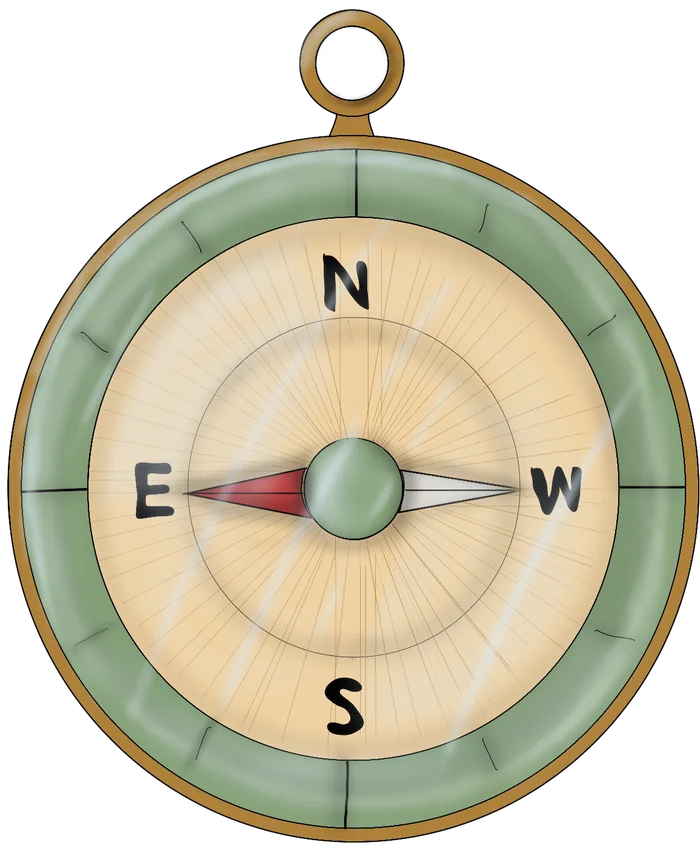
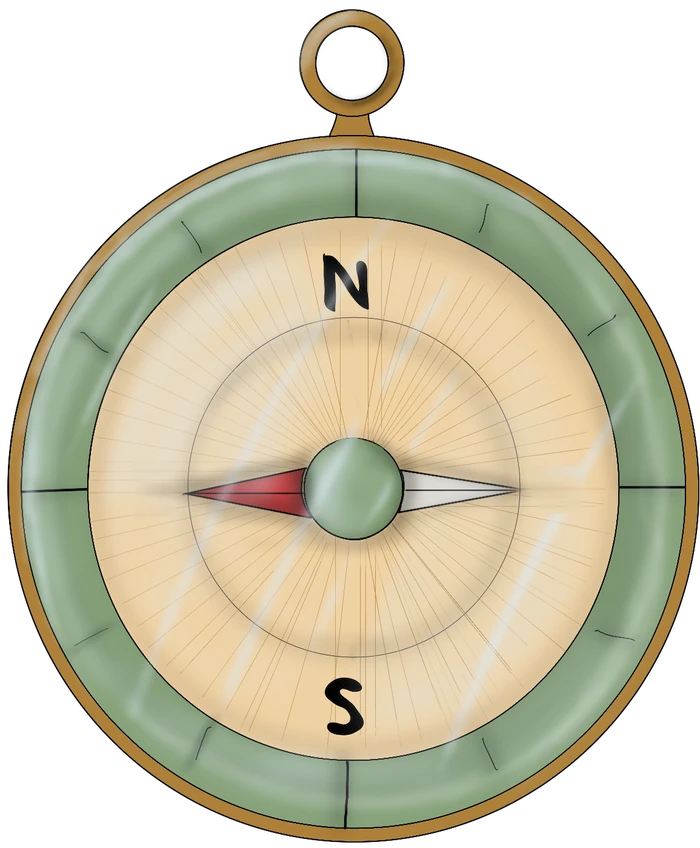
Compass demo with spinning needle, Nor lines and direction buttons; E/W letters swapped on their own layer; extra room dimming under Nor

Changed region(s): [[0.18, 0.5212, 0.27, 0.6132], [0.75, 0.5519, 0.84, 0.6132]]

diff --git a/Web/game.js b/Web/game.js
@@ -403,10 +403,10 @@ function showScreen(name) {
 // room4 (door wall) faces west, then turning right: room (bed) north,
 // room2 east, room3 south — each wall has its own drawing
 const COMPASS_BY_WALL = {
-  room: 'assets/img/room4/compass-room.webp?v=1',
-  room2: 'assets/img/room4/compass-room2.webp?v=1',
-  room3: 'assets/img/room4/compass-room3.webp?v=1',
-  room4: 'assets/img/room4/compass-room4.webp?v=1',
+  room: 'assets/img/room4/compass-room.webp?v=2',
+  room2: 'assets/img/room4/compass-room2.webp?v=2',
+  room3: 'assets/img/room4/compass-room3.webp?v=2',
+  room4: 'assets/img/room4/compass-room4.webp?v=2',
 };
 Object.values(COMPASS_BY_WALL).forEach(src => { new Image().src = src; });
 // closeups and side rooms keep the compass of the wall they belong to, so
@@ -418,7 +418,10 @@ const COMPASS_WALL_OF_SCREEN = {
   room4: 'room4', board: 'room4', 'tumbochka-drawer': 'room4', 'tumbochka-top': 'room4',
 };
 let compassWall = 'room4';
+// while Nor's compass demonstration runs the needle is driven by the animation, not by the wall
+let compassLock = false;
 function updateCompassImage() {
+  if (compassLock) return;
   el('compass-overlay-img').src = COMPASS_BY_WALL[compassWall];
 }
 let compassOverlayOpenedAt = 0;
@@ -438,14 +441,77 @@ function maybePlayCompassIntro() {
   if (!state.norRoom4Shown || !active || active.id !== 'scene-room4') return;
   state.compassIntroDone = true;
   saveProgress();
-  const text = 'Моя комната — квадрат, и у неё четыре стороны. Переходи от одной к другой стрелочками справа и слева. Давай найдём, с какой стороны юг!';
-  playRoom4Dialogue(text, null, 12000);
-  lastRoom4Line = { text, audioId: null };
+  runCompassDemo();
 }
+
+// Nor's demonstration: the needle spins fast while she explains, slows down while she
+// holds the compass still, then settles with the red end on the right and she asks which
+// side of the world she is facing — with the four answers popping up over the compass
+const COMPASS_SPIN_ORDER = ['room', 'room2', 'room3', 'room4']; // red end: up, left, down, right
+let compassDemoTimers = [];
+function compassDemoLater(fn, ms) {
+  compassDemoTimers.push(setTimeout(fn, ms));
+}
+function setCompassFrame(wall) {
+  el('compass-overlay-img').src = COMPASS_BY_WALL[wall];
+}
+function cancelCompassDemo() {
+  compassDemoTimers.forEach(clearTimeout);
+  compassDemoTimers = [];
+  compassLock = false;
+  el('compass-dir-buttons').classList.add('hidden');
+  el('compass-overlay').classList.remove('dir-mode');
+  document.querySelectorAll('.compass-dir-btn').forEach(b => b.classList.remove('shown', 'selected'));
+}
+function runCompassDemo() {
+  cancelCompassDemo();
+  compassLock = true;
+  const line1 = 'Моя комната — квадрат, и у неё четыре стороны. Переходи от одной к другой стрелочками справа и слева. Давай найдём, с какой стороны юг!';
+  const line2 = 'Так, держу компас ровно, как говорили на видео.';
+  const line3 = 'Ага, красная стрелка справа, значит и северный полюс тоже справа. А какая часть света тогда передо мной?';
+  const T1 = 12000, T2 = 5500, T3 = 9500;
+  playRoom4Dialogue(line1, null, T1);
+  // fast spin for the whole first line
+  let i = 0;
+  for (let t = 0; t < T1; t += 90) {
+    compassDemoLater(() => setCompassFrame(COMPASS_SPIN_ORDER[i++ % 4]), t);
+  }
+  // second line: the spin slows down (gaps grow), ending exactly on the next frame boundary
+  compassDemoLater(() => {
+    playRoom4Dialogue(line2, null, T2);
+    let t = 0, gap = 110;
+    while (t < T2 - 700) {
+      compassDemoLater(() => setCompassFrame(COMPASS_SPIN_ORDER[i++ % 4]), t);
+      t += gap;
+      gap = Math.round(gap * 1.28);
+    }
+  }, T1);
+  // third line: settled with the red end on the right, then the four answers
+  compassDemoLater(() => {
+    setCompassFrame('room4');
+    compassWall = 'room4';
+    playRoom4Dialogue(line3, null, T3);
+    lastRoom4Line = { text: line3, audioId: null };
+    el('compass-dir-buttons').classList.remove('hidden');
+    el('compass-overlay').classList.add('dir-mode');
+    document.querySelectorAll('.compass-dir-btn').forEach((b, k) => {
+      setTimeout(() => b.classList.add('shown'), 250 + k * 180);
+    });
+    compassLock = false;
+  }, T1 + T2);
+}
+document.querySelectorAll('.compass-dir-btn').forEach(btn => {
+  btn.addEventListener('click', () => {
+    playSfx(el('audio-move'), -12);
+    document.querySelectorAll('.compass-dir-btn').forEach(b => b.classList.remove('selected'));
+    btn.classList.add('selected');
+  });
+});
 el('compass-overlay-img').addEventListener('click', () => {
   // the tap that picked the compass up also ends with a click — ignore it
   if (Date.now() - compassOverlayOpenedAt < 400) return;
   playSfx(el('audio-move'), -12);
+  cancelCompassDemo();
   el('compass-overlay').classList.add('hidden');
 });
 

diff --git a/Web/style.css b/Web/style.css
@@ -1722,7 +1722,6 @@ html, body {
   position: absolute;
   inset: 0;
   z-index: 60;
-  background: rgba(20,16,12,0.3);
   display: flex;
   align-items: center;
   justify-content: center;
@@ -1730,13 +1729,59 @@ html, body {
      compass stays open; only the compass itself reacts (to close it) */
   pointer-events: none;
 }
+#compass-stack {
+  position: relative;
+  top: 0;
+  width: 38%;
+  pointer-events: none;
+  transition: top .4s ease;
+}
+
 #compass-overlay-img {
+  display: block;
   pointer-events: auto;
   cursor: pointer;
-  width: 38%;
+  width: 100%;
   height: auto;
   filter: drop-shadow(0 8px 18px rgba(0,0,0,0.45));
 }
+#compass-letters-img {
+  position: absolute;
+  inset: 0;
+  width: 100%;
+  height: 100%;
+  pointer-events: none;
+}
+/* the four answers floating above the compass */
+#compass-dir-buttons {
+  position: absolute;
+  left: 0;
+  right: 0;
+  top: 78%;
+  display: flex;
+  justify-content: center;
+  gap: 1.6vmin;
+  pointer-events: none;
+  z-index: 2;
+}
+#compass-dir-buttons.hidden { display: none !important; }
+.compass-dir-btn {
+  pointer-events: auto;
+  background: #a9793f;
+  border: 2px solid #f4ead9;
+  color: #f4ead9;
+  font-size: 2vmin;
+  font-weight: 600;
+  padding: 1vmin 2.4vmin;
+  border-radius: 22px;
+  box-shadow: 0 4px 10px rgba(0,0,0,0.4);
+  cursor: pointer;
+  opacity: 0;
+  transform: translateY(1.5vmin);
+  transition: opacity .4s ease, transform .4s ease, background .2s ease;
+}
+.compass-dir-btn.shown { opacity: 1; transform: translateY(0); }
+.compass-dir-btn.selected { background: #f4ead9; color: #3a2a1a; border-color: #a9793f; }
 
 /* the empty part of the computer screen while the search page is open: tapping it closes the search */
 #computer-search-backdrop {
@@ -1767,3 +1812,14 @@ html, body {
   transform-origin: 24.3% 16.63%;
   filter: drop-shadow(0.5px 0 0 #8b6b50) drop-shadow(-0.5px 0 0 #8b6b50) drop-shadow(0 0.5px 0 #8b6b50) drop-shadow(0 -0.5px 0 #8b6b50);
 }
+
+/* room dimming while the compass is open: below Nor (z 6) and her bubble, above the room pictures */
+#compass-dim {
+  display: none;
+  position: absolute;
+  inset: 0;
+  z-index: 5;
+  background: rgba(20,16,12,0.5);
+  pointer-events: none;
+}
+#compass-overlay:not(.hidden) + #compass-dim { display: block; }

diff --git a/Web/index.html b/Web/index.html
@@ -4,7 +4,7 @@
 <meta charset="UTF-8">
 <meta name="viewport" content="width=device-width, initial-scale=1.0">
 <title>Деревня Баракатово</title>
-<link rel="stylesheet" href="style.css?v=165">
+<link rel="stylesheet" href="style.css?v=192">
 </head>
 <body>
 
@@ -273,8 +273,20 @@
 
     <!-- the compass, opened from the inventory once Nor says it can be used -->
     <div id="compass-overlay" class="hidden">
-      <img id="compass-overlay-img" src="assets/img/room4/compass-room4.webp?v=1" alt="Компас">
+      <div id="compass-dir-buttons" class="hidden">
+        <button class="compass-dir-btn" data-dir="north">Север</button>
+        <button class="compass-dir-btn" data-dir="south">Юг</button>
+        <button class="compass-dir-btn" data-dir="west">Запад</button>
+        <button class="compass-dir-btn" data-dir="east">Восток</button>
+      </div>
+      <div id="compass-stack">
+        <img id="compass-overlay-img" src="assets/img/room4/compass-room4.webp?v=2" alt="Компас">
+        <!-- W and E are drawn on their own layer, swapped into the right places, over every needle picture -->
+        <img id="compass-letters-img" src="assets/img/room4/compass-letters.webp?v=1" alt="">
+      </div>
     </div>
+    <!-- extra dimming behind the open compass: sits below Nor and her bubble so they stay in normal colour -->
+    <div id="compass-dim"></div>
 
     <div id="sticker-lightbox" class="hidden">
       <img id="sticker-lightbox-img" src="" alt="">
@@ -480,6 +492,6 @@
 <audio preload="auto" id="audio-towel" src="assets/audio/towel.mp3"></audio>
 <audio preload="auto" id="audio-clothes" src="assets/audio/clothes.mp3"></audio>
 
-<script src="game.js?v=181"></script>
+<script src="game.js?v=192"></script>
 </body>
 </html>
